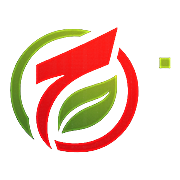
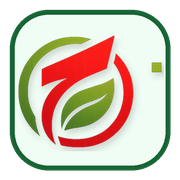
Add files via upload

diff --git a/pricing.html b/pricing.html
@@ -12,7 +12,7 @@
 <style>
 :root{--bg:#f3f7ff;--panel:#fff;--panel2:#f8fafc;--text:#0f172a;--muted:#64748b;--border:#dbe4f0;--blue:#2563eb;--blue2:#1d4ed8;--green:#0f766e;--green2:#0d9488;--purple:#7c3aed;--shadow:0 18px 50px rgba(15,23,42,.08);--radius:24px}
 *{box-sizing:border-box}html,body{margin:0;padding:0;font-family:Inter,system-ui,-apple-system,Segoe UI,Roboto,Arial,sans-serif;background:linear-gradient(180deg,#eef4ff,#f8fbff 35%,#f5f7fa);color:var(--text)}
-a{text-decoration:none}button,input{font:inherit}.wrap{max-width:1220px;margin:0 auto;padding:28px 18px 60px}.topbar{display:flex;justify-content:space-between;gap:12px;align-items:center;margin-bottom:28px;flex-wrap:wrap}.top-left{display:flex;gap:10px;align-items:center;flex-wrap:wrap}.brand-mini{display:inline-flex;align-items:center;padding:8px 12px;border-radius:999px;background:#fff;border:1px solid var(--border);box-shadow:0 8px 18px rgba(15,23,42,.05)}.brand-mini img{height:28px;width:auto;display:block}.pill,.ghost-btn{display:inline-flex;align-items:center;justify-content:center;gap:8px;padding:11px 15px;border-radius:999px;border:1px solid var(--border);background:#fff;color:#334155;font-weight:700}.ghost-btn:hover{border-color:#bfd0e8}.hero{background:linear-gradient(135deg,#0f172a,#1e3a8a);color:#fff;border-radius:32px;padding:34px 30px;box-shadow:var(--shadow);margin-bottom:22px}.hero h1{margin:0;font-size:48px;line-height:1.02;letter-spacing:-1.6px}.hero p{margin:14px 0 0;color:#dbeafe;max-width:760px;font-size:18px;line-height:1.6}.hero-actions{display:flex;gap:10px;flex-wrap:wrap;margin-top:22px}.hero .hero-btn{display:inline-flex;padding:13px 18px;border-radius:16px;font-weight:800}.hero .hero-btn.primary{background:#fff;color:#0f172a}.hero .hero-btn.secondary{background:rgba(255,255,255,.12);color:#fff;border:1px solid rgba(255,255,255,.18)}.grid{display:grid;grid-template-columns:repeat(3,minmax(0,1fr));gap:18px;margin-bottom:22px}.card{background:var(--panel);border:1px solid #e6edf8;border-radius:var(--radius);padding:22px;box-shadow:0 10px 30px rgba(15,23,42,.05);position:relative;display:flex;flex-direction:column}.card.featured{border:2px solid var(--blue);transform:translateY(-2px)}.tag{display:inline-flex;align-items:center;border-radius:999px;padding:6px 10px;font-size:12px;font-weight:800;margin-bottom:14px;width:max-content}.tag.blue{background:#dbeafe;color:#1d4ed8}.tag.green{background:#dcfce7;color:#166534}.tag.purple{background:#ede9fe;color:#6d28d9}.price{font-size:44px;font-weight:900;letter-spacing:-1.2px;margin:8px 0}.price small{font-size:18px;font-weight:800}.muted{color:var(--muted)}ul{padding-left:18px;line-height:1.7;color:#334155;margin:12px 0 0}.card .cta{margin-top:auto;padding-top:18px}.btn{width:100%;border:none;border-radius:16px;padding:13px 16px;font-weight:800;cursor:pointer}.btn-blue{background:linear-gradient(135deg,var(--blue),var(--blue2));color:#fff}.btn-green{background:linear-gradient(135deg,var(--green),var(--green2));color:#fff}.btn-soft{background:#fff;border:1px solid var(--border);color:#0f172a}.benefits{display:grid;grid-template-columns:repeat(3,minmax(0,1fr));gap:14px;margin-bottom:22px}.benefit{background:#fff;border:1px solid #e6edf8;border-radius:18px;padding:16px;box-shadow:0 8px 24px rgba(15,23,42,.04)}.benefit strong{display:block;font-size:15px;margin-bottom:6px}.checkout{display:none;background:#fff;border:1px solid #e6edf8;border-radius:30px;padding:24px;box-shadow:var(--shadow)}.checkout.show{display:block}.checkout-head{display:flex;justify-content:space-between;align-items:flex-start;gap:16px;flex-wrap:wrap;margin-bottom:18px}.selected-plan{background:#eff6ff;border:1px solid #bfdbfe;color:#1d4ed8;padding:10px 14px;border-radius:16px;font-weight:800}.form-grid{display:grid;grid-template-columns:repeat(4,minmax(0,1fr));gap:14px}.field{display:flex;flex-direction:column;gap:7px}.field label{font-size:13px;font-weight:800;color:#334155}.field input{padding:13px 14px;border:1px solid #d7e0ec;border-radius:14px;outline:none;background:#fff}.field input:focus{border-color:var(--blue)}.checkout-actions{display:flex;gap:12px;flex-wrap:wrap;margin-top:20px}.checkout-actions .btn{width:auto;min-width:220px}.msg{margin-top:12px;padding:13px 14px;border-radius:14px;font-size:14px;font-weight:700;display:none}.msg.err{display:block;background:#fef2f2;color:#991b1b;border:1px solid #fecaca}.msg.ok{display:block;background:#ecfeff;color:#155e75;border:1px solid #a5f3fc}.faq{margin-top:22px;background:#fff;border:1px solid #e6edf8;border-radius:26px;padding:22px;box-shadow:0 8px 24px rgba(15,23,42,.04)}.faq h2{margin:0 0 16px;font-size:24px}.faq-grid{display:grid;grid-template-columns:repeat(3,minmax(0,1fr));gap:16px}.faq-item{padding:16px;border:1px solid #edf2f7;border-radius:18px;background:#fbfdff}.faq-item strong{display:block;margin-bottom:8px}.footer-note{margin-top:14px;color:#64748b;font-size:13px}.hidden{display:none!important}
+a{text-decoration:none}button,input{font:inherit}.wrap{max-width:1220px;margin:0 auto;padding:28px 18px 60px}.topbar{display:flex;justify-content:space-between;gap:12px;align-items:center;margin-bottom:28px;flex-wrap:wrap}.top-left{display:flex;gap:10px;align-items:center;flex-wrap:wrap}.brand-mini{display:inline-flex;align-items:center;gap:10px;padding:8px 12px;border-radius:999px;background:#fff;border:1px solid var(--border);box-shadow:0 8px 18px rgba(15,23,42,.05)}.brand-mini img{width:30px;height:30px;border-radius:10px;display:block}.brand-mini strong{font-size:15px;color:#0f172a}.pill,.ghost-btn{display:inline-flex;align-items:center;justify-content:center;gap:8px;padding:11px 15px;border-radius:999px;border:1px solid var(--border);background:#fff;color:#334155;font-weight:700}.ghost-btn:hover{border-color:#bfd0e8}.hero{background:linear-gradient(135deg,#0f172a,#1e3a8a);color:#fff;border-radius:32px;padding:34px 30px;box-shadow:var(--shadow);margin-bottom:22px}.hero h1{margin:0;font-size:48px;line-height:1.02;letter-spacing:-1.6px}.hero p{margin:14px 0 0;color:#dbeafe;max-width:760px;font-size:18px;line-height:1.6}.hero-actions{display:flex;gap:10px;flex-wrap:wrap;margin-top:22px}.hero .hero-btn{display:inline-flex;padding:13px 18px;border-radius:16px;font-weight:800}.hero .hero-btn.primary{background:#fff;color:#0f172a}.hero .hero-btn.secondary{background:rgba(255,255,255,.12);color:#fff;border:1px solid rgba(255,255,255,.18)}.grid{display:grid;grid-template-columns:repeat(3,minmax(0,1fr));gap:18px;margin-bottom:22px}.card{background:var(--panel);border:1px solid #e6edf8;border-radius:var(--radius);padding:22px;box-shadow:0 10px 30px rgba(15,23,42,.05);position:relative;display:flex;flex-direction:column}.card.featured{border:2px solid var(--blue);transform:translateY(-2px)}.tag{display:inline-flex;align-items:center;border-radius:999px;padding:6px 10px;font-size:12px;font-weight:800;margin-bottom:14px;width:max-content}.tag.blue{background:#dbeafe;color:#1d4ed8}.tag.green{background:#dcfce7;color:#166534}.tag.purple{background:#ede9fe;color:#6d28d9}.price{font-size:44px;font-weight:900;letter-spacing:-1.2px;margin:8px 0}.price small{font-size:18px;font-weight:800}.muted{color:var(--muted)}ul{padding-left:18px;line-height:1.7;color:#334155;margin:12px 0 0}.card .cta{margin-top:auto;padding-top:18px}.btn{width:100%;border:none;border-radius:16px;padding:13px 16px;font-weight:800;cursor:pointer}.btn-blue{background:linear-gradient(135deg,var(--blue),var(--blue2));color:#fff}.btn-green{background:linear-gradient(135deg,var(--green),var(--green2));color:#fff}.btn-soft{background:#fff;border:1px solid var(--border);color:#0f172a}.benefits{display:grid;grid-template-columns:repeat(3,minmax(0,1fr));gap:14px;margin-bottom:22px}.benefit{background:#fff;border:1px solid #e6edf8;border-radius:18px;padding:16px;box-shadow:0 8px 24px rgba(15,23,42,.04)}.benefit strong{display:block;font-size:15px;margin-bottom:6px}.checkout{display:none;background:#fff;border:1px solid #e6edf8;border-radius:30px;padding:24px;box-shadow:var(--shadow)}.checkout.show{display:block}.checkout-head{display:flex;justify-content:space-between;align-items:flex-start;gap:16px;flex-wrap:wrap;margin-bottom:18px}.selected-plan{background:#eff6ff;border:1px solid #bfdbfe;color:#1d4ed8;padding:10px 14px;border-radius:16px;font-weight:800}.form-grid{display:grid;grid-template-columns:repeat(4,minmax(0,1fr));gap:14px}.field{display:flex;flex-direction:column;gap:7px}.field label{font-size:13px;font-weight:800;color:#334155}.field input{padding:13px 14px;border:1px solid #d7e0ec;border-radius:14px;outline:none;background:#fff}.field input:focus{border-color:var(--blue)}.checkout-actions{display:flex;gap:12px;flex-wrap:wrap;margin-top:20px}.checkout-actions .btn{width:auto;min-width:220px}.msg{margin-top:12px;padding:13px 14px;border-radius:14px;font-size:14px;font-weight:700;display:none}.msg.err{display:block;background:#fef2f2;color:#991b1b;border:1px solid #fecaca}.msg.ok{display:block;background:#ecfeff;color:#155e75;border:1px solid #a5f3fc}.faq{margin-top:22px;background:#fff;border:1px solid #e6edf8;border-radius:26px;padding:22px;box-shadow:0 8px 24px rgba(15,23,42,.04)}.faq h2{margin:0 0 16px;font-size:24px}.faq-grid{display:grid;grid-template-columns:repeat(3,minmax(0,1fr));gap:16px}.faq-item{padding:16px;border:1px solid #edf2f7;border-radius:18px;background:#fbfdff}.faq-item strong{display:block;margin-bottom:8px}.footer-note{margin-top:14px;color:#64748b;font-size:13px}.hidden{display:none!important}
 @media(max-width:980px){.grid,.benefits,.faq-grid,.form-grid{grid-template-columns:1fr}.hero h1{font-size:36px}.checkout-actions .btn{width:100%}.wrap{padding:18px 14px 40px}}
 </style>
 </head>
@@ -20,7 +20,7 @@ a{text-decoration:none}button,input{font:inherit}.wrap{max-width:1220px;margin:0
 <div class="wrap">
   <div class="topbar">
     <div class="top-left">
-      <a class="brand-mini" href="./index.html"><img src="./assets/tridds-logo.png" alt="TriDDS"></a>
+      <a class="brand-mini" href="./index.html"><img src="./assets/tridds-icon-512.png" alt="TriDDS"><strong>TriDDS</strong></a>
       <a class="ghost-btn" href="./index.html">← Retour à l’accueil</a>
       <a class="ghost-btn" href="./index.html">J’ai déjà un code</a>
     </div>

diff --git a/index.html b/index.html
@@ -132,7 +132,8 @@ body{background:linear-gradient(180deg,#eef4ff,#f7fbff 38%,#f2f5fb)}
 #s-login{padding:24px 18px 26px!important;background:radial-gradient(circle at top left,#1e3a8a,#0f172a 58%)!important}
 .landing-wrap{max-width:1380px;width:100%;margin:0 auto;display:flex;flex-direction:column;gap:22px}
 .landing-nav{display:flex;justify-content:space-between;align-items:center;gap:12px;flex-wrap:wrap}
-.landing-brand{display:flex;flex-direction:column;align-items:flex-start;gap:8px;color:#fff}.landing-brand-wordmark{height:48px;width:auto;display:block}.landing-brand span{display:block;color:#c7d2fe;font-size:13px;margin-top:0}
+.landing-brand{display:flex;align-items:center;gap:12px;color:#fff}.landing-brand-mark{width:52px;height:52px;border-radius:16px;display:flex;align-items:center;justify-content:center;overflow:hidden;box-shadow:0 16px 28px rgba(15,23,42,.18);background:#fff}.landing-brand-mark img{width:100%;height:100%;object-fit:cover;display:block}
+.landing-brand strong{display:block;font-size:24px;letter-spacing:-.8px}.landing-brand span{display:block;color:#c7d2fe;font-size:13px;margin-top:2px}
 .landing-nav-actions{display:flex;gap:10px;flex-wrap:wrap}.landing-link{display:inline-flex;align-items:center;justify-content:center;padding:12px 16px;border-radius:999px;border:1px solid rgba(255,255,255,.18);background:rgba(255,255,255,.08);color:#fff;font-weight:800;text-decoration:none}.landing-link.primary{background:#fff;color:#0f172a;border-color:#fff}
 .landing-grid{display:grid;grid-template-columns:1.08fr .92fr;gap:22px;align-items:stretch}.landing-copy{background:linear-gradient(135deg,rgba(255,255,255,.10),rgba(255,255,255,.04));border:1px solid rgba(255,255,255,.15);border-radius:32px;padding:34px;color:#fff;backdrop-filter:blur(10px);box-shadow:0 24px 60px rgba(2,6,23,.18)}
 .landing-kicker{display:inline-flex;align-items:center;gap:8px;padding:8px 12px;border-radius:999px;background:rgba(255,255,255,.12);font-size:12px;font-weight:800;color:#fff;margin-bottom:16px}.landing-copy h1{font-size:58px;line-height:1.02;letter-spacing:-2px;margin:0;color:#fff!important}.landing-copy h1:before{content:none!important}.landing-copy p{font-size:18px;line-height:1.65;color:#dbeafe!important;margin:18px 0 0!important}
@@ -210,8 +211,8 @@ body{background:linear-gradient(180deg,#eef4ff,#f7fbff 38%,#f2f5fb)}
   <div class="landing-wrap">
     <div class="landing-nav">
       <div class="landing-brand">
-        <img class="landing-brand-wordmark" src="./assets/tridds-logo.png" alt="TriDDS">
-        <span>Assistant IA de tri des DDS</span>
+        <div class="landing-brand-mark"><img src="./assets/tridds-icon-512.png" alt="TriDDS"></div>
+        <div><strong>TriDDS</strong><span>Assistant IA de tri des DDS</span></div>
       </div>
       <div class="landing-nav-actions">
         <a class="landing-link info" href="#info-tri">Informations</a>
